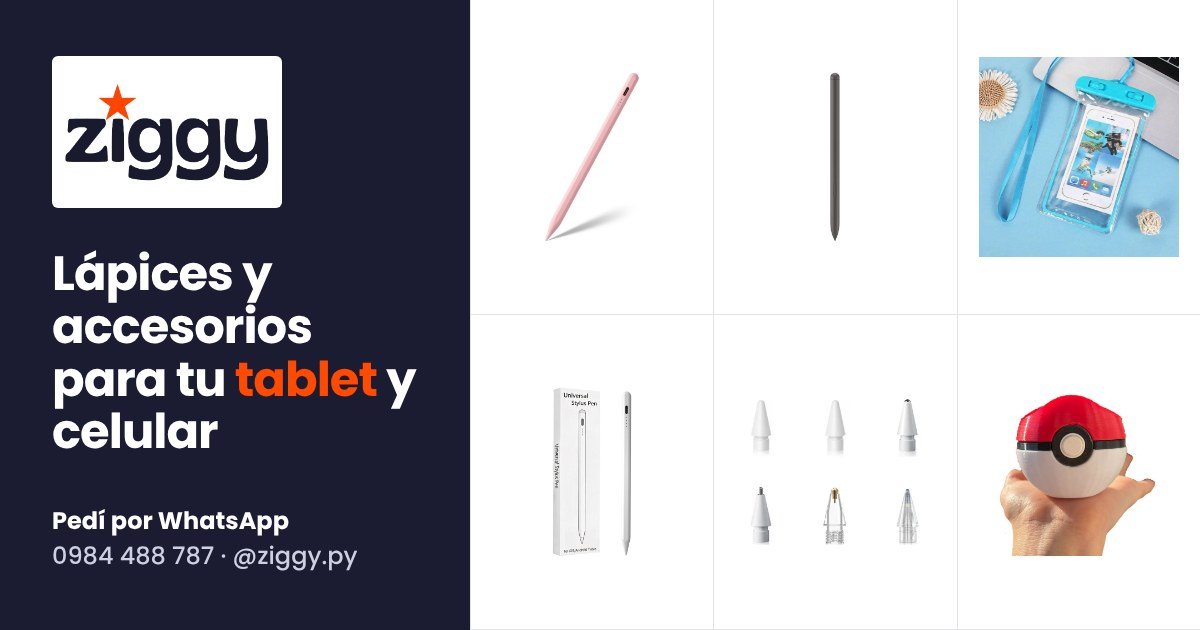
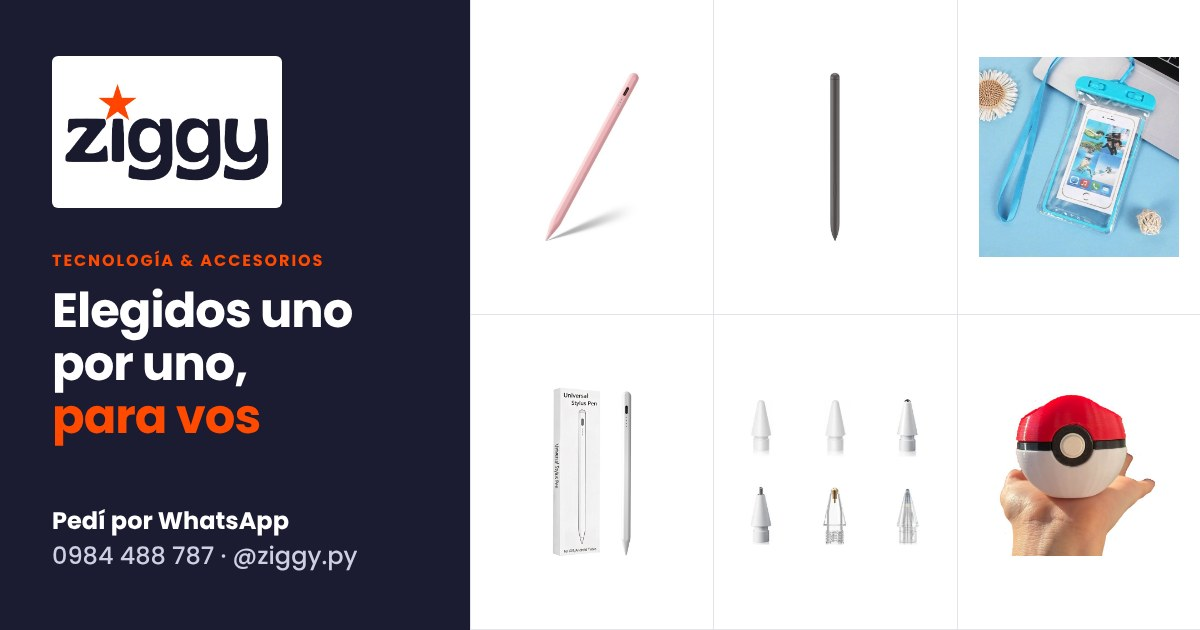
Nuevo título: Elegidos uno por uno, para vos
Claude-Session: https://claude.ai/code/session_01ADwd8HB3NWVph2tHqHnPbX

Changed region(s): [[0.0308, 0.3921, 0.37, 0.7238]]

diff --git a/index.html b/index.html
@@ -4,12 +4,12 @@
 <meta charset="utf-8">
 <meta name="viewport" content="width=device-width,initial-scale=1,viewport-fit=cover">
 <title>Catálogo Ziggy</title>
-<meta name="description" content="Lápices, puntas y accesorios para tablet y celular. San Lorenzo, Paraguay. Pedidos por WhatsApp 0984 488 787.">
+<meta name="description" content="Tecnología y accesorios elegidos uno por uno. San Lorenzo, Paraguay. Pedidos por WhatsApp 0984 488 787.">
 <meta property="og:title" content="Catálogo Ziggy">
-<meta property="og:description" content="Lápices, puntas y accesorios para tablet y celular. Pedidos por WhatsApp.">
+<meta property="og:description" content="Tecnología y accesorios elegidos uno por uno. Pedidos por WhatsApp.">
 <meta property="og:type" content="website">
 <meta property="og:url" content="https://ziggypyg.github.io/">
-<meta property="og:image" content="https://ziggypyg.github.io/fotos/compartir.jpg">
+<meta property="og:image" content="https://ziggypyg.github.io/fotos/compartir.jpg?v=2">
 <meta property="og:image:width" content="1200">
 <meta property="og:image:height" content="630">
 <meta name="twitter:card" content="summary_large_image">
@@ -117,7 +117,7 @@ h1 { margin: 0; font: 600 clamp(27px, 7.4vw, 42px)/1.15 var(--head); letter-spac
   </div>
   <div class="hero-band"><div class="in hero">
     <p class="eyebrow">Tecnología &amp; accesorios</p>
-    <h1>Lápices y accesorios para tu tablet y celular</h1>
+    <h1>Elegidos uno por uno, para vos</h1>
     <p class="lead">Elegís acá y nos pedís por WhatsApp.</p>
     <a class="cta" href="#como-pedir">¿Cómo hacer tu pedido? <span aria-hidden="true">→</span></a>
   </div></div>
